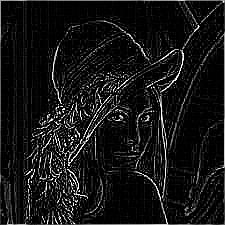
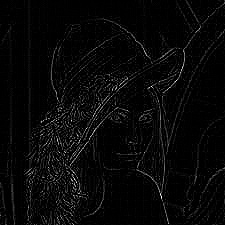
-

diff --git a/trabalho4/passaltaLaplace.py b/trabalho4/passaltaLaplace.py
@@ -1,8 +1,11 @@
-from PIL import Image, ImageFilter 
-  
-image = Image.open('imagem2.jpg')
-image = image.convert("L") 
-image = image.filter(ImageFilter.Kernel((3, 3), (-1, -1, -1, -1, 8, 
-                                          -1, -1, -1, -1), 1, 0)) 
-  
-image.save("passaaltaLaplace.jpg")
+import numpy as np
+import cv2
+
+img = cv2.imread('imagem2.jpg')
+img = cv2.cvtColor(img, cv2.COLOR_BGR2GRAY)
+lap = cv2.Laplacian(img, cv2.CV_64F)
+
+img_new = np.vstack([lap])
+
+cv2.imwrite('passaaltaLaplace.jpg', img_new) 
+
